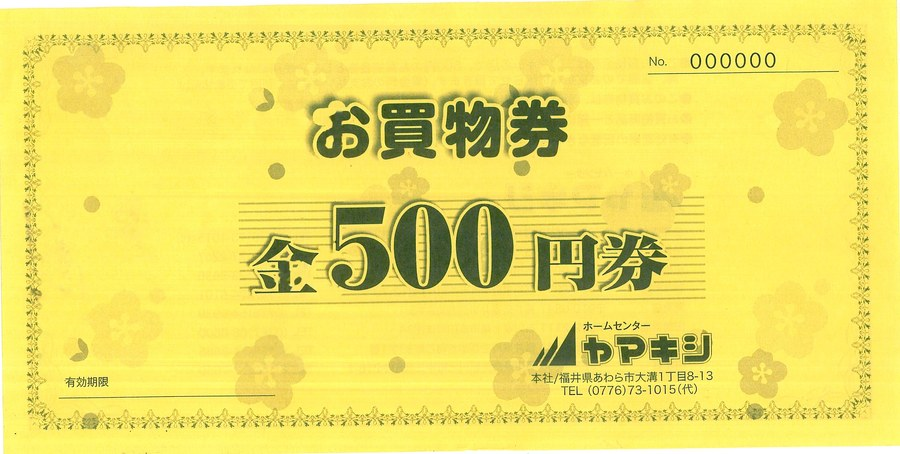
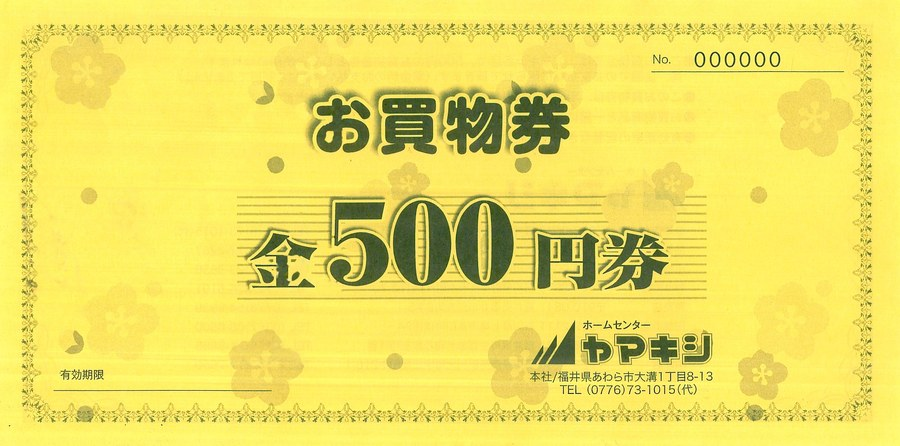
お買物券を台形補正でまっすぐに（ソリ・余白除去）／相談導線をフリーダイヤルのみにし店舗リンクを追加／注意事項の写真3項目を1つに集約

diff --git a/inquiry/webrsv/index.html b/inquiry/webrsv/index.html
@@ -358,14 +358,14 @@
       <h2 class="c-head__title">入力が面倒な方は<span class="marker">こちら</span></h2>
     </div>
     <div class="p-rsvalt">
-      <a class="c-btn c-btn--line c-btn--block" href="https://lin.ee/UJZuSTrz" rel="noopener" data-cta="rsv-alt">
-        <span class="c-btn__label">LINEで相談する<span class="c-btn__sub">写真を送るだけ・24時間受付</span></span>
-      </a>
-      <a class="c-btn c-btn--ghost c-btn--block" href="tel:0800-777-3331" data-cta="rsv-alt">
+      <a class="c-btn c-btn--block p-rsvalt__tel" href="tel:0800-777-3331" data-cta="rsv-alt">
         <span class="c-btn__label">0800-777-3331<span class="c-btn__sub">通話無料・受付 9:00〜17:00</span></span>
       </a>
     </div>
-    <p class="p-form__note" style="text-align:center">※LINE・お電話でのご予約は、お買物券の対象外となります。</p>
+    <p class="p-rsvalt__shop">
+      お急ぎの場合は、<a href="/shops/">お近くの店舗</a>へご連絡ください。
+    </p>
+    <p class="p-form__note" style="text-align:center">※お電話でのご予約は、お買物券の対象外となります。</p>
   </div>
 </section>
 
@@ -385,9 +385,7 @@
       <li>お申し込み後、当社からの予約確認の電話連絡をもって予約完了となります。電話連絡は1〜3日以内にさせていただきます。</li>
       <li>お急ぎの場合は、直接お近くのヤマキシへご連絡ください。※その場合は特典対象外となります。</li>
       <li>詳しくは現地係員にお問い合わせください。</li>
-      <li>エコキュート・給湯器・トイレ・洗面などの設備に関しては、現状の設備の写真を撮ってご来店いただくと、その場でお見積りできる場合がございます。<small>※必ずお見積りできるわけではございません。</small></li>
-      <li>写真は、設置状況が分かる引きの写真や設備の色々な角度の写真、ラベル表記などを撮影いただくとお見積りしやすくなります。<small>※必ずお見積りできるわけではございません。</small></li>
-      <li>キッチンやお風呂、外壁塗装や部屋の改装などのお見積りは写真ではできません。現地調査が必要となります。</li>
+      <li>エコキュート・給湯器・トイレ・洗面などの設備は、現状の写真を撮ってご来店いただくと、その場でお見積りできる場合がございます。設置状況が分かる引きの写真、設備の色々な角度の写真、ラベル表記などがあるとお見積りしやすくなります。なお、キッチンやお風呂、外壁塗装や部屋の改装のお見積りは写真ではできません。現地調査が必要となります。<small>※写真をお持ちいただいても、必ずお見積りできるわけではございません。</small></li>
     </ul>
   </div>
 </section>

diff --git a/assets/css/page.css b/assets/css/page.css
@@ -260,6 +260,10 @@
 
 /* 他の相談方法 */
 .p-rsvalt{ display:grid; gap:12px; max-width:460px; margin:0 auto 14px; }
+/* 電話番号のボタン。数字を大きく見せます */
+.p-rsvalt__tel .c-btn__label{ font-size:22px; letter-spacing:.02em; }
+.p-rsvalt__shop{ text-align:center; font-size:15px; font-weight:800; margin-bottom:6px; }
+.p-rsvalt__shop a{ color:var(--brand-dark); }
 
 @media (min-width:768px){
   .p-benefit__box{ grid-template-columns:1.1fr .9fr; align-items:center; padding:32px; gap:32px; }
